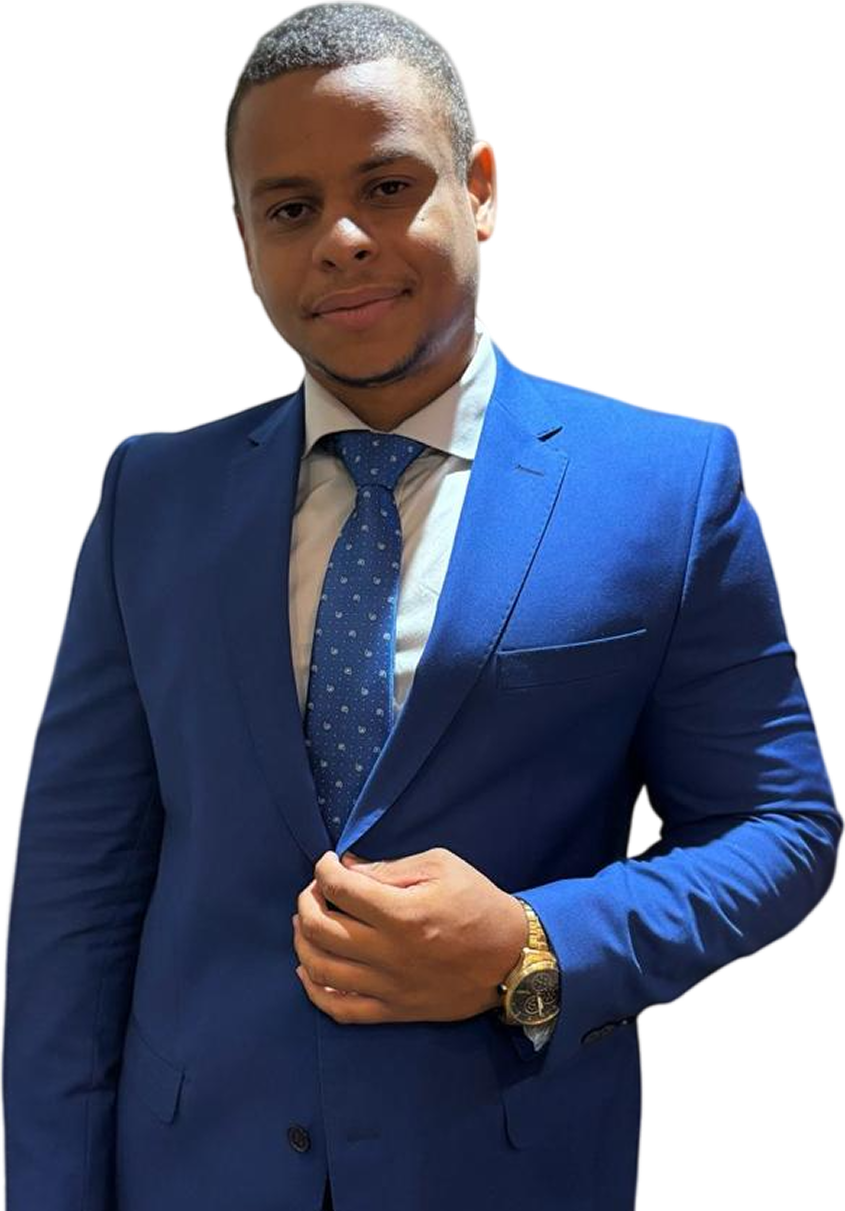
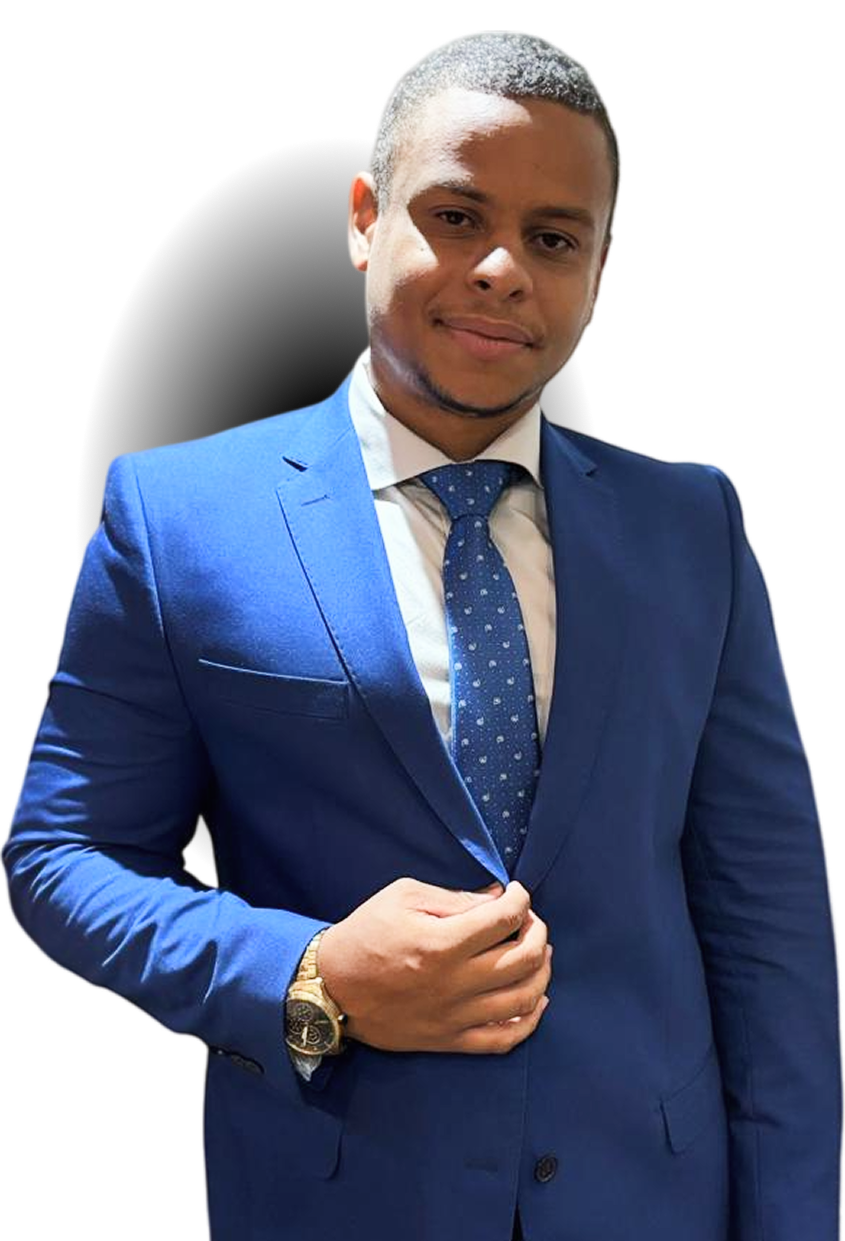
feat: Finaliza protasio

diff --git a/src/components/sections/Hero.jsx b/src/components/sections/Hero.jsx
@@ -2,6 +2,7 @@ import MotionDivDownToUp from "../animation/MotionDivDownToUp";
 import content from "../../content/content";
 import Button from "../interactives/Button";
 import { FaWhatsapp } from "react-icons/fa";
+import MotionDivRightToLeft from "../animation/MotionDivRightToLeft";
 
 const whatsappContactLink = `${content.texts.links.ctaWhatsapp}`;
 
@@ -34,7 +35,6 @@ export default function Hero({ appDownloadButtons, personImg, fundoImage }) {
                   <MotionDivDownToUp>
                     <div className="flex justify-center w-full text-center desktop1:text-left desktop1:justify-start font-secondFont text-paragraph4 phone3:text-paragraph5">
                       <p className="text-white mb-[32px] ">
-
                         {content.texts.hero.subtitle}
                       </p>
                     </div>
@@ -55,7 +55,6 @@ export default function Hero({ appDownloadButtons, personImg, fundoImage }) {
                         <div className="flex flex-col items-center desktop1:flex-row text-primary">
                           {content.texts.hero.obsHero.icon}
                           <p className="text-white  ml-[10px] text-center mt-[12px] desktop1:mt-0">
-
                             {content.texts.hero.obsHero.text}
                           </p>
                         </div>
@@ -65,7 +64,6 @@ export default function Hero({ appDownloadButtons, personImg, fundoImage }) {
                       <MotionDivDownToUp>
                         <div className="flex flex-col items-center desktop1:items-start">
                           <p className="mb-[20px] mt-[60px] text-white  text-center">
-
                             {content.texts.hero.app.description}
                           </p>
                           <div className="">
@@ -74,7 +72,7 @@ export default function Hero({ appDownloadButtons, personImg, fundoImage }) {
                               <a
                                 href={content.texts.hero.app.imgs.appStore.link}
                                 target="_blank"
-                                className="transition hover:scale-110  invert"
+                                className="transition hover:scale-110 invert"
                               >
                                 <img
                                   src={content.texts.hero.app.imgs.appStore.img}
@@ -87,7 +85,7 @@ export default function Hero({ appDownloadButtons, personImg, fundoImage }) {
                                   content.texts.hero.app.imgs.playStore.link
                                 }
                                 target="_blank"
-                                className="transition hover:scale-110  invert"
+                                className="transition hover:scale-110 invert"
                               >
                                 <img
                                   src={
@@ -173,7 +171,7 @@ export default function Hero({ appDownloadButtons, personImg, fundoImage }) {
                               <a
                                 href={content.texts.hero.app.imgs.appStore.link}
                                 target="_blank"
-                                className="transition hover:scale-110  invert"
+                                className="transition hover:scale-110 invert"
                               >
                                 <img
                                   src={content.texts.hero.app.imgs.appStore.img}
@@ -186,7 +184,7 @@ export default function Hero({ appDownloadButtons, personImg, fundoImage }) {
                                   content.texts.hero.app.imgs.playStore.link
                                 }
                                 target="_blank"
-                                className="transition hover:scale-110  invert"
+                                className="transition hover:scale-110 invert"
                               >
                                 <img
                                   src={
@@ -206,7 +204,7 @@ export default function Hero({ appDownloadButtons, personImg, fundoImage }) {
                   </div>
                 </div>
                 <div className="flex justify-center w-[90%] tablet1:w-[450px] desktop1:w-[35%]">
-                  <MotionDivDownToUp className="relative flex items-end justify-center w-full desktop2:justify-end">
+                  <MotionDivRightToLeft className="relative flex items-end justify-center w-full desktop2:justify-end">
                     <img
                       src={content.texts.hero.personImg}
                       className="relative hidden desktop1:right-10 desktop1:flex"
@@ -224,7 +222,7 @@ export default function Hero({ appDownloadButtons, personImg, fundoImage }) {
                     backgroundSize: "",
                   }}
                 ></div> */}
-                  </MotionDivDownToUp>
+                  </MotionDivRightToLeft>
                 </div>
               </div>
             </div>
@@ -292,7 +290,7 @@ export default function Hero({ appDownloadButtons, personImg, fundoImage }) {
                               <a
                                 href={content.texts.hero.app.imgs.appStore.link}
                                 target="_blank"
-                                className="transition hover:scale-110  invert"
+                                className="transition hover:scale-110 invert"
                               >
                                 <img
                                   src={content.texts.hero.app.imgs.appStore.img}
@@ -305,7 +303,7 @@ export default function Hero({ appDownloadButtons, personImg, fundoImage }) {
                                   content.texts.hero.app.imgs.playStore.link
                                 }
                                 target="_blank"
-                                className="transition hover:scale-110  invert"
+                                className="transition hover:scale-110 invert"
                               >
                                 <img
                                   src={

diff --git a/tailwind.config.js b/tailwind.config.js
@@ -6,7 +6,7 @@ export const theme = {
       primary: "#DBB14C",
       secondary: "#000922",
       bgSectionLight: "#FFFFFF",
-      bgSectionDark: "#000000",
+      bgSectionDark: "#060916",
       links: "#0189BB",
       buttonColor: "#DBB14C",
       lighter: "#FFFFFF",
